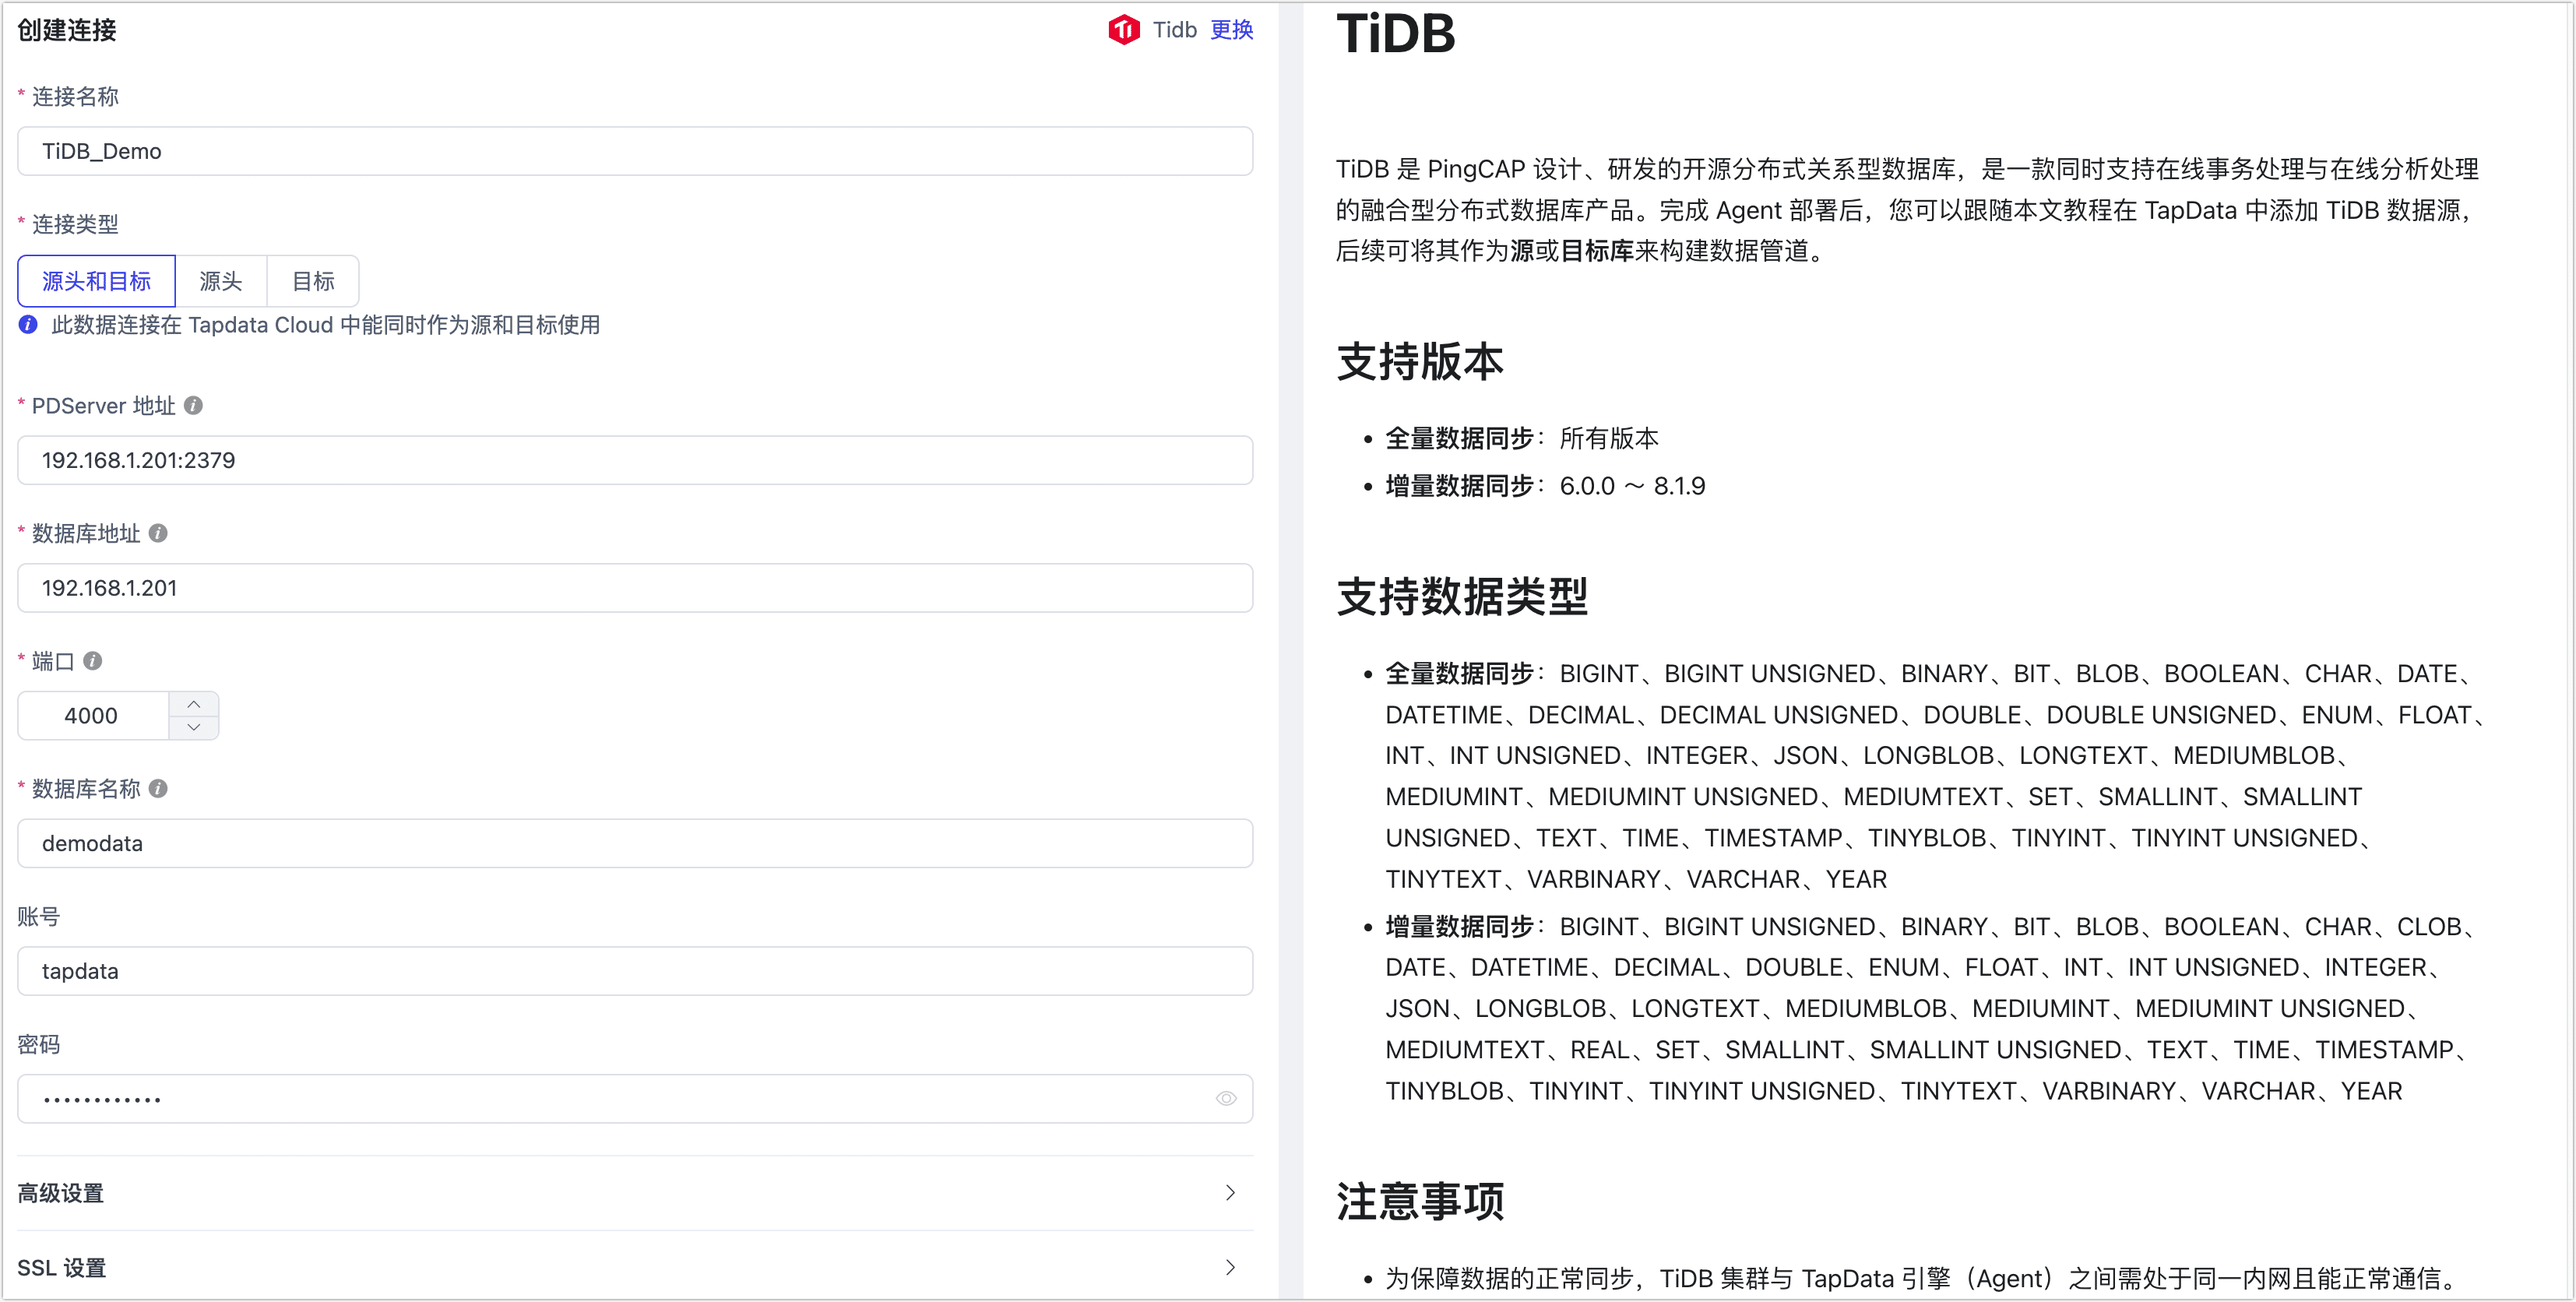
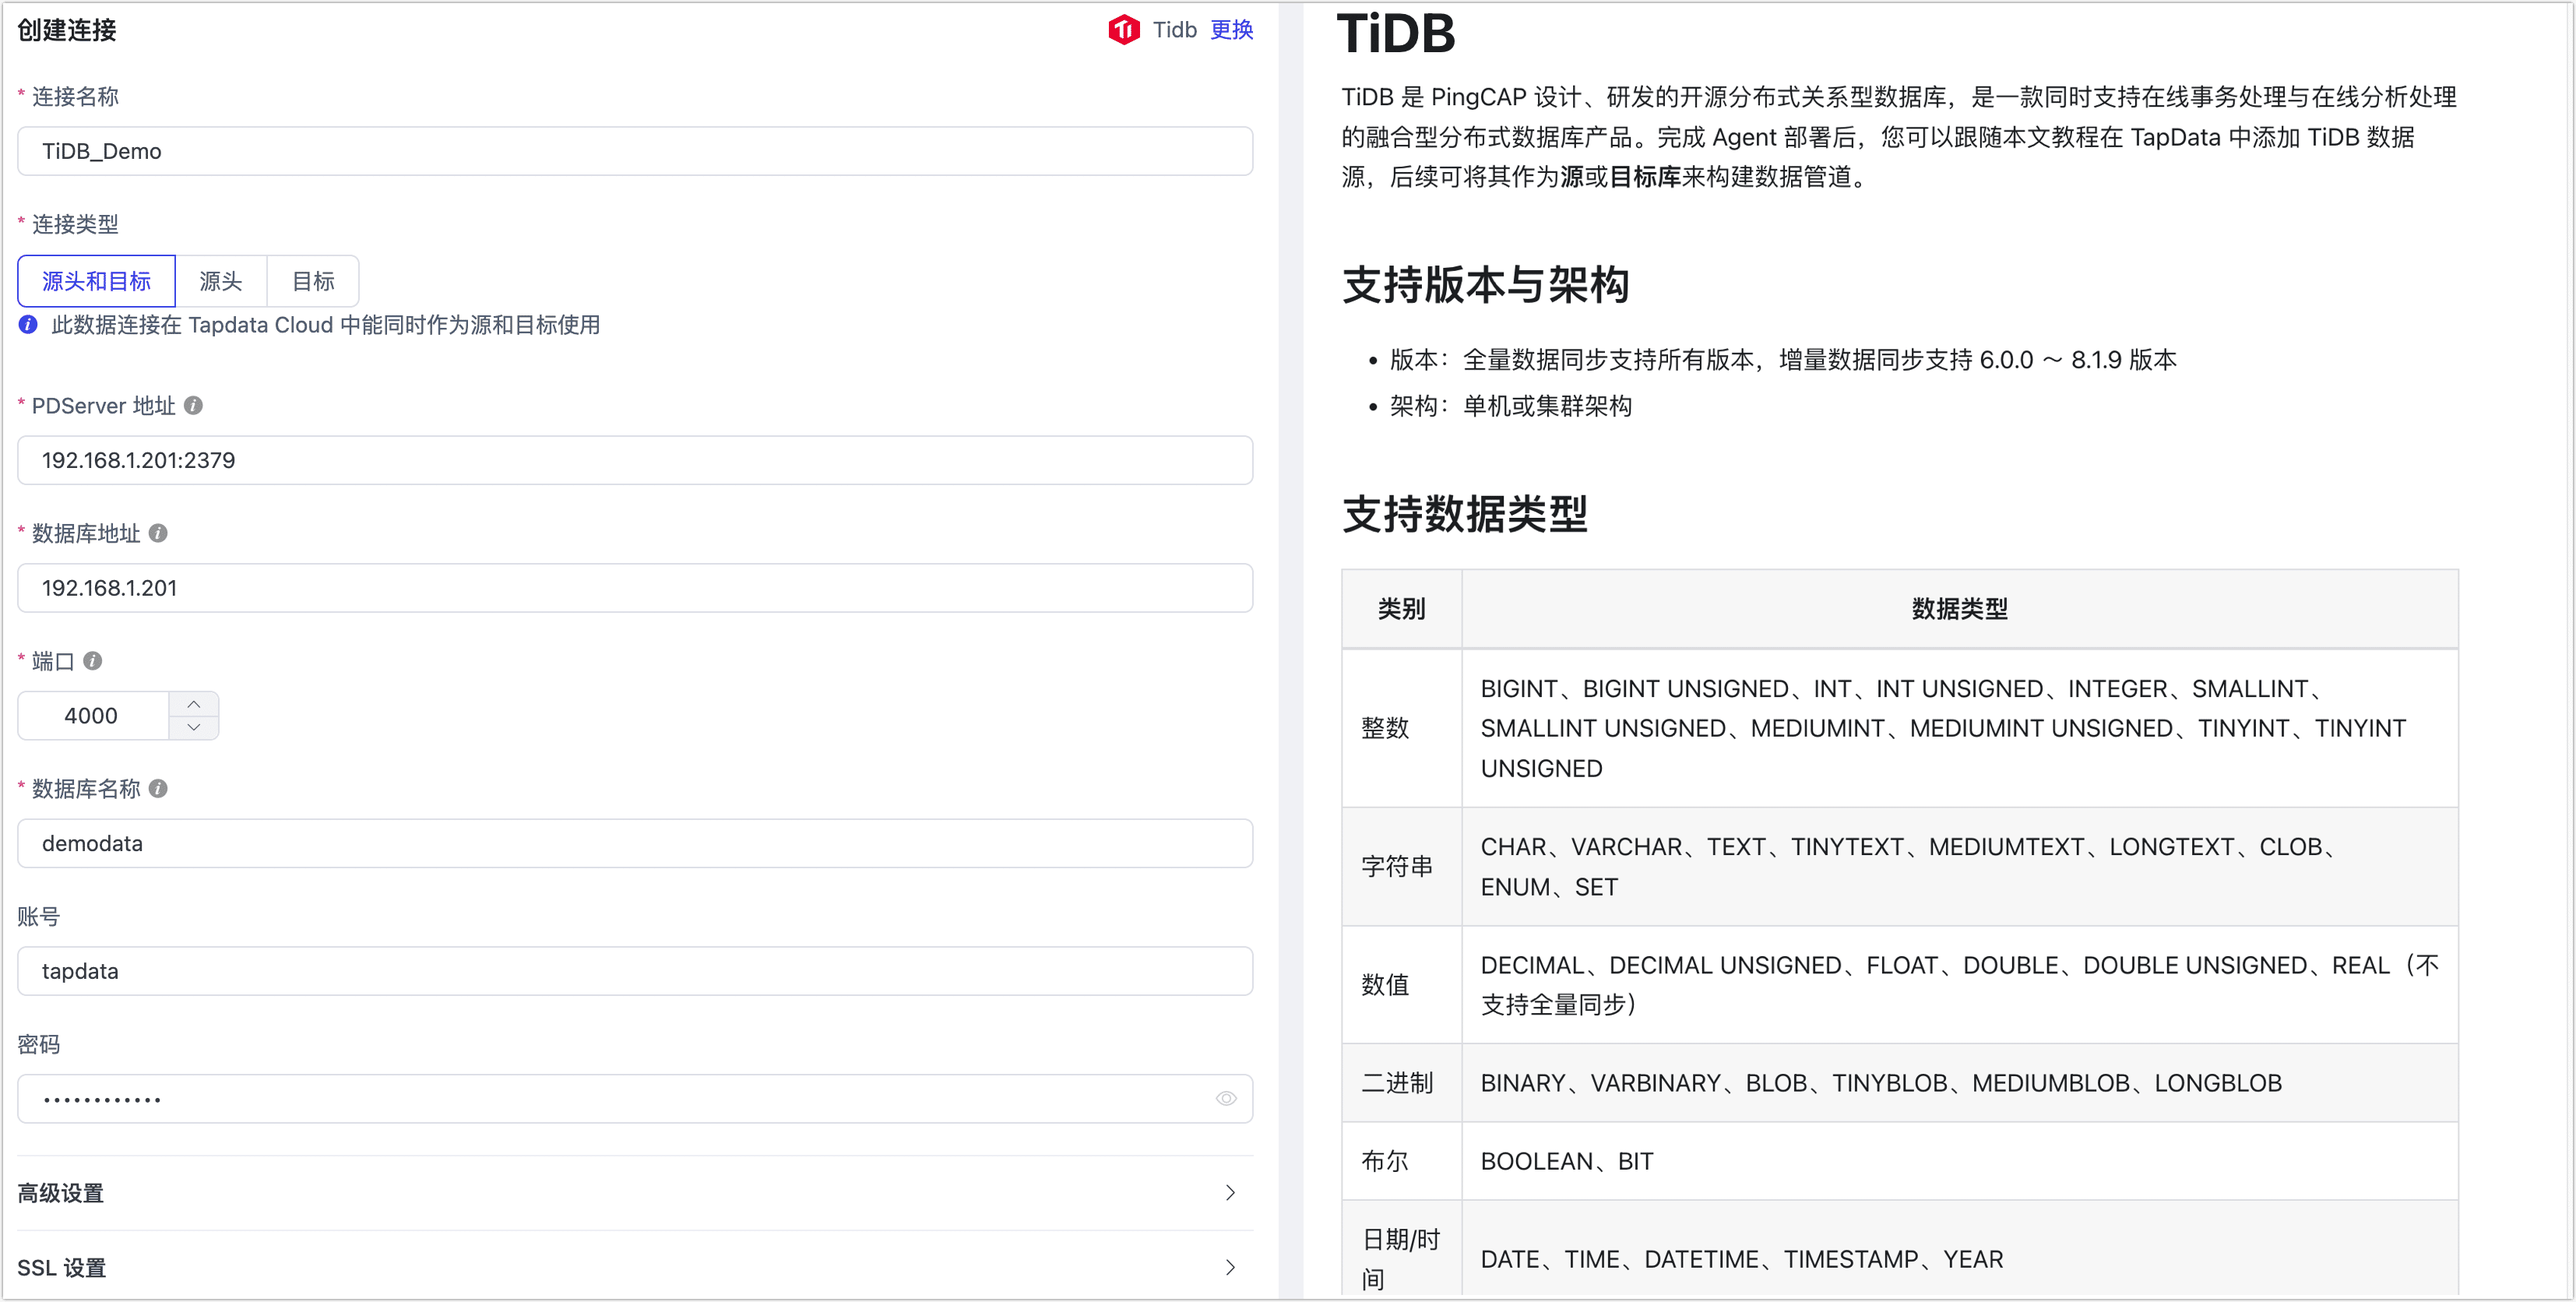
Part 3

Changed region(s): [[0.4982, 0.0622, 0.9652, 0.8397], [0.4982, 0.8708, 0.9652, 0.9952], [0.8096, 0.2488, 0.8407, 0.2799]]

diff --git a/docs/prerequisites/on-prem-databases/tidb.md b/docs/prerequisites/on-prem-databases/tidb.md
@@ -3,27 +3,45 @@ import Content from '../../reuse-content/_enterprise-and-cloud-features.md';
 
 <Content />
 
-TiDB 是 PingCAP 设计、研发的开源分布式关系型数据库，是一款同时支持在线事务处理与在线分析处理的融合型分布式数据库产品。完成 Agent 部署后，您可以跟随本文教程在 TapData 中添加 TiDB 数据源，后续可将其作为**源**或**目标库**来构建数据管道。
+[TiDB](https://docs.pingcap.com/zh/tidb/stable) 是 PingCAP 设计、研发的开源分布式关系型数据库，是一款同时支持在线事务处理与在线分析处理的融合型分布式数据库产品。完成 Agent 部署后，您可以跟随本文教程在 TapData 中添加 TiDB 数据源，后续可将其作为**源**或**目标库**来构建数据管道。
 
 ```mdx-code-block
 import Tabs from '@theme/Tabs';
 import TabItem from '@theme/TabItem';
 ```
 
-## 支持版本
+## 支持版本与架构
 
-* **全量数据同步**：所有版本
-* **增量数据同步**：6.0.0 ～ 8.1.9
+* 版本：全量数据同步支持所有版本，增量数据同步支持 6.0.0 ～ 8.1.9 版本
+* 架构：单机或集群架构
 
 ## 支持数据类型
 
-* **全量数据同步**：BIGINT、BIGINT UNSIGNED、BINARY、BIT、BLOB、BOOLEAN、CHAR、DATE、DATETIME、DECIMAL、DECIMAL UNSIGNED、DOUBLE、DOUBLE UNSIGNED、ENUM、FLOAT、INT、INT UNSIGNED、INTEGER、JSON、LONGBLOB、LONGTEXT、MEDIUMBLOB、MEDIUMINT、MEDIUMINT UNSIGNED、MEDIUMTEXT、SET、SMALLINT、SMALLINT UNSIGNED、TEXT、TIME、TIMESTAMP、TINYBLOB、TINYINT、TINYINT UNSIGNED、TINYTEXT、VARBINARY、VARCHAR、YEAR
-* **增量数据同步**：BIGINT、BIGINT UNSIGNED、BINARY、BIT、BLOB、BOOLEAN、CHAR、CLOB、DATE、DATETIME、DECIMAL、DOUBLE、ENUM、FLOAT、INT、INT UNSIGNED、INTEGER、JSON、LONGBLOB、LONGTEXT、MEDIUMBLOB、MEDIUMINT、MEDIUMINT UNSIGNED、MEDIUMTEXT、REAL、SET、SMALLINT、SMALLINT UNSIGNED、TEXT、TIME、TIMESTAMP、TINYBLOB、TINYINT、TINYINT UNSIGNED、TINYTEXT、VARBINARY、VARCHAR、YEAR
+| 类别      | 数据类型                                                     |
+| --------- | ------------------------------------------------------------ |
+| 整数      | BIGINT、BIGINT UNSIGNED、INT、INT UNSIGNED、INTEGER、SMALLINT、SMALLINT UNSIGNED、MEDIUMINT、MEDIUMINT UNSIGNED、TINYINT、TINYINT UNSIGNED |
+| 字符串    | CHAR、VARCHAR、TEXT、TINYTEXT、MEDIUMTEXT、LONGTEXT、CLOB、ENUM、SET |
+| 数值      | DECIMAL、DECIMAL UNSIGNED、FLOAT、DOUBLE、DOUBLE UNSIGNED、REAL（不支持全量同步） |
+| 二进制    | BINARY、VARBINARY、BLOB、TINYBLOB、MEDIUMBLOB、LONGBLOB      |
+| 布尔      | BOOLEAN、BIT                                                 |
+| 日期/时间 | DATE、TIME、DATETIME、TIMESTAMP、YEAR                        |
+| JSON      | JSON                                                         |
 
 ## 支持同步的操作
 
 - **DML**：INSERT、UPDATE、DELETE
-- **DDL**：ADD COLUMN、CHANGE COLUMN、DROP COLUMN
+
+  :::tip
+
+  将 TiDB 作为同步的目标时，您还可以通过任务节点的高级配置，选择写入策略：插入冲突场景下，可选择转为更新或丢弃；更新失败场景下，可选择转为插入或仅打印日志。
+
+  :::
+
+- **DDL**：ADD COLUMN、CHANGE COLUMN、DROP COLUMN、RENAME COLUMN
+
+## 增量同步原理
+
+为进一步简化使用流程，TapData 的 TiDB 连接器集成了 [TiFlow 组件](https://github.com/pingcap/tiflow)（8.1.0 版本），可基于数据变更日志解析为有序的行级变更数据。更多原理及概念介绍，见 [TiCDC 概述](https://docs.pingcap.com/zh/tidb/stable/ticdc-overview)。
 
 ## 注意事项
 
@@ -38,10 +56,6 @@ import TabItem from '@theme/TabItem';
   * TapData 引擎需要部署运行在 **arm 或 amd** 系统架构下。
   
   * 由于 TiDB 组件间通信限制，当采用 Tapdata Cloud 产品时，部署的 Agent 需为[半托管实例](../../faq/agent-installation#semi-and-full-agent)。
-
-## 增量同步原理
-
-为进一步简化使用流程，TapData 的 TiDB 连接器集成了 [TiFlow 组件](https://github.com/pingcap/tiflow)（8.1.0 版本），可基于数据变更日志解析为有序的行级变更数据。更多原理及概念介绍，见 [TiCDC 概述](https://docs.pingcap.com/zh/tidb/stable/ticdc-overview)。
 
 ## <span id="prerequisite">准备工作</span>
 
@@ -60,8 +74,6 @@ import TabItem from '@theme/TabItem';
    ```sql
    CREATE USER 'tapdata'@'%' IDENTIFIED BY 'your_passwd';
    ```
-
-
 
 2. 为刚创建的账号授予权限。
 
@@ -114,17 +126,15 @@ GRANT SELECT, INSERT, UPDATE, DELETE, ALTER, CREATE, DROP ON *.* TO 'username';
       * **数据库名称**：数据库名称（区分大小写），即一个连接对应一个数据库，如有多个数据库则需创建多个数据连接。
       * **账号**、**密码**：数据库的账号和密码，账号的创建和授权方法，见[准备工作](#prerequisite)。
       * **TiKV 端口**：作为 TiDB 的存储层，提供了数据持久化、读写服务和统计信息数据记录功能，默认端口为 **20160**， 本参数仅在作为源库且需要增量数据同步时填写。
-      
    * **高级设置**
       * **其他连接串参数**：额外的连接参数，默认为空。
-      * **时间类型的时区**：默认为数据库所用的时区，您也可以根据业务需求手动指定。
+      * **时区设置**：默认时区为 0（UTC），如果配置了其他时区，可能会影响不含时区信息的字段（如 `datetime`）的同步。带时区信息的字段（如 `timestamp with time zone`）和 `date`、`time` 类型则不会受到影响。
       * **共享挖掘**：[挖掘源库](../../user-guide/advanced-settings/share-mining.md)的增量日志，可为多个任务共享源库的增量日志，避免重复读取，从而最大程度上减轻增量同步对源库的压力，开启该功能后还需要选择一个外存用来存储增量日志信息，本参数仅在作为源库时需填写。
       * **包含表**：默认为**全部**，您也可以选择自定义并填写包含的表，多个表之间用英文逗号（,）分隔。
       * **排除表**：打开该开关后，可以设定要排除的表，多个表之间用英文逗号（,）分隔。
       * **Agent 设置**：默认为**平台自动分配**，您也可以手动指定。
       * **模型加载时间**：当数据源中模型数量小于 10,000 时，每小时刷新一次模型信息；如果模型数据超过 10,000，则每天按照您指定的时间刷新模型信息。
-      * **开启心跳表**：当连接类型选择为**源头和目标**、**源头**时，支持打开该开关，由 Tapdata 在源库中创建一个名为 **_tapdata_heartbeat_table** 的心跳表并每隔 10 秒更新一次其中的数据（数据库账号需具备相关权限），用于数据源连接与任务的健康度监测。
-      
+      * **开启心跳表**：当连接类型为源头或目标时，可启用该开关。TapData 会在源库创建 `_tapdata_heartbeat_table` 心跳表，并每 10 秒更新一次（需具备相应权限），用于监测数据源连接与任务的健康状况。心跳任务在数据复制/开发任务启动后自动启动，您可在数据源编辑页面[查看心跳任务](../../best-practice/heart-beat-task.md)。
    * **SSL 设置**：选择是否开启 SSL 连接数据源，可进一步提升数据安全性，开启该功能后还需要上传 CA 文件、客户端证书、密钥填写客户端密码。更多介绍，见[生成自签名证书](https://docs.pingcap.com/zh/tidb/stable/generate-self-signed-certificates)。
    
 6. 单击**连接测试**，测试通过后单击**保存**。
